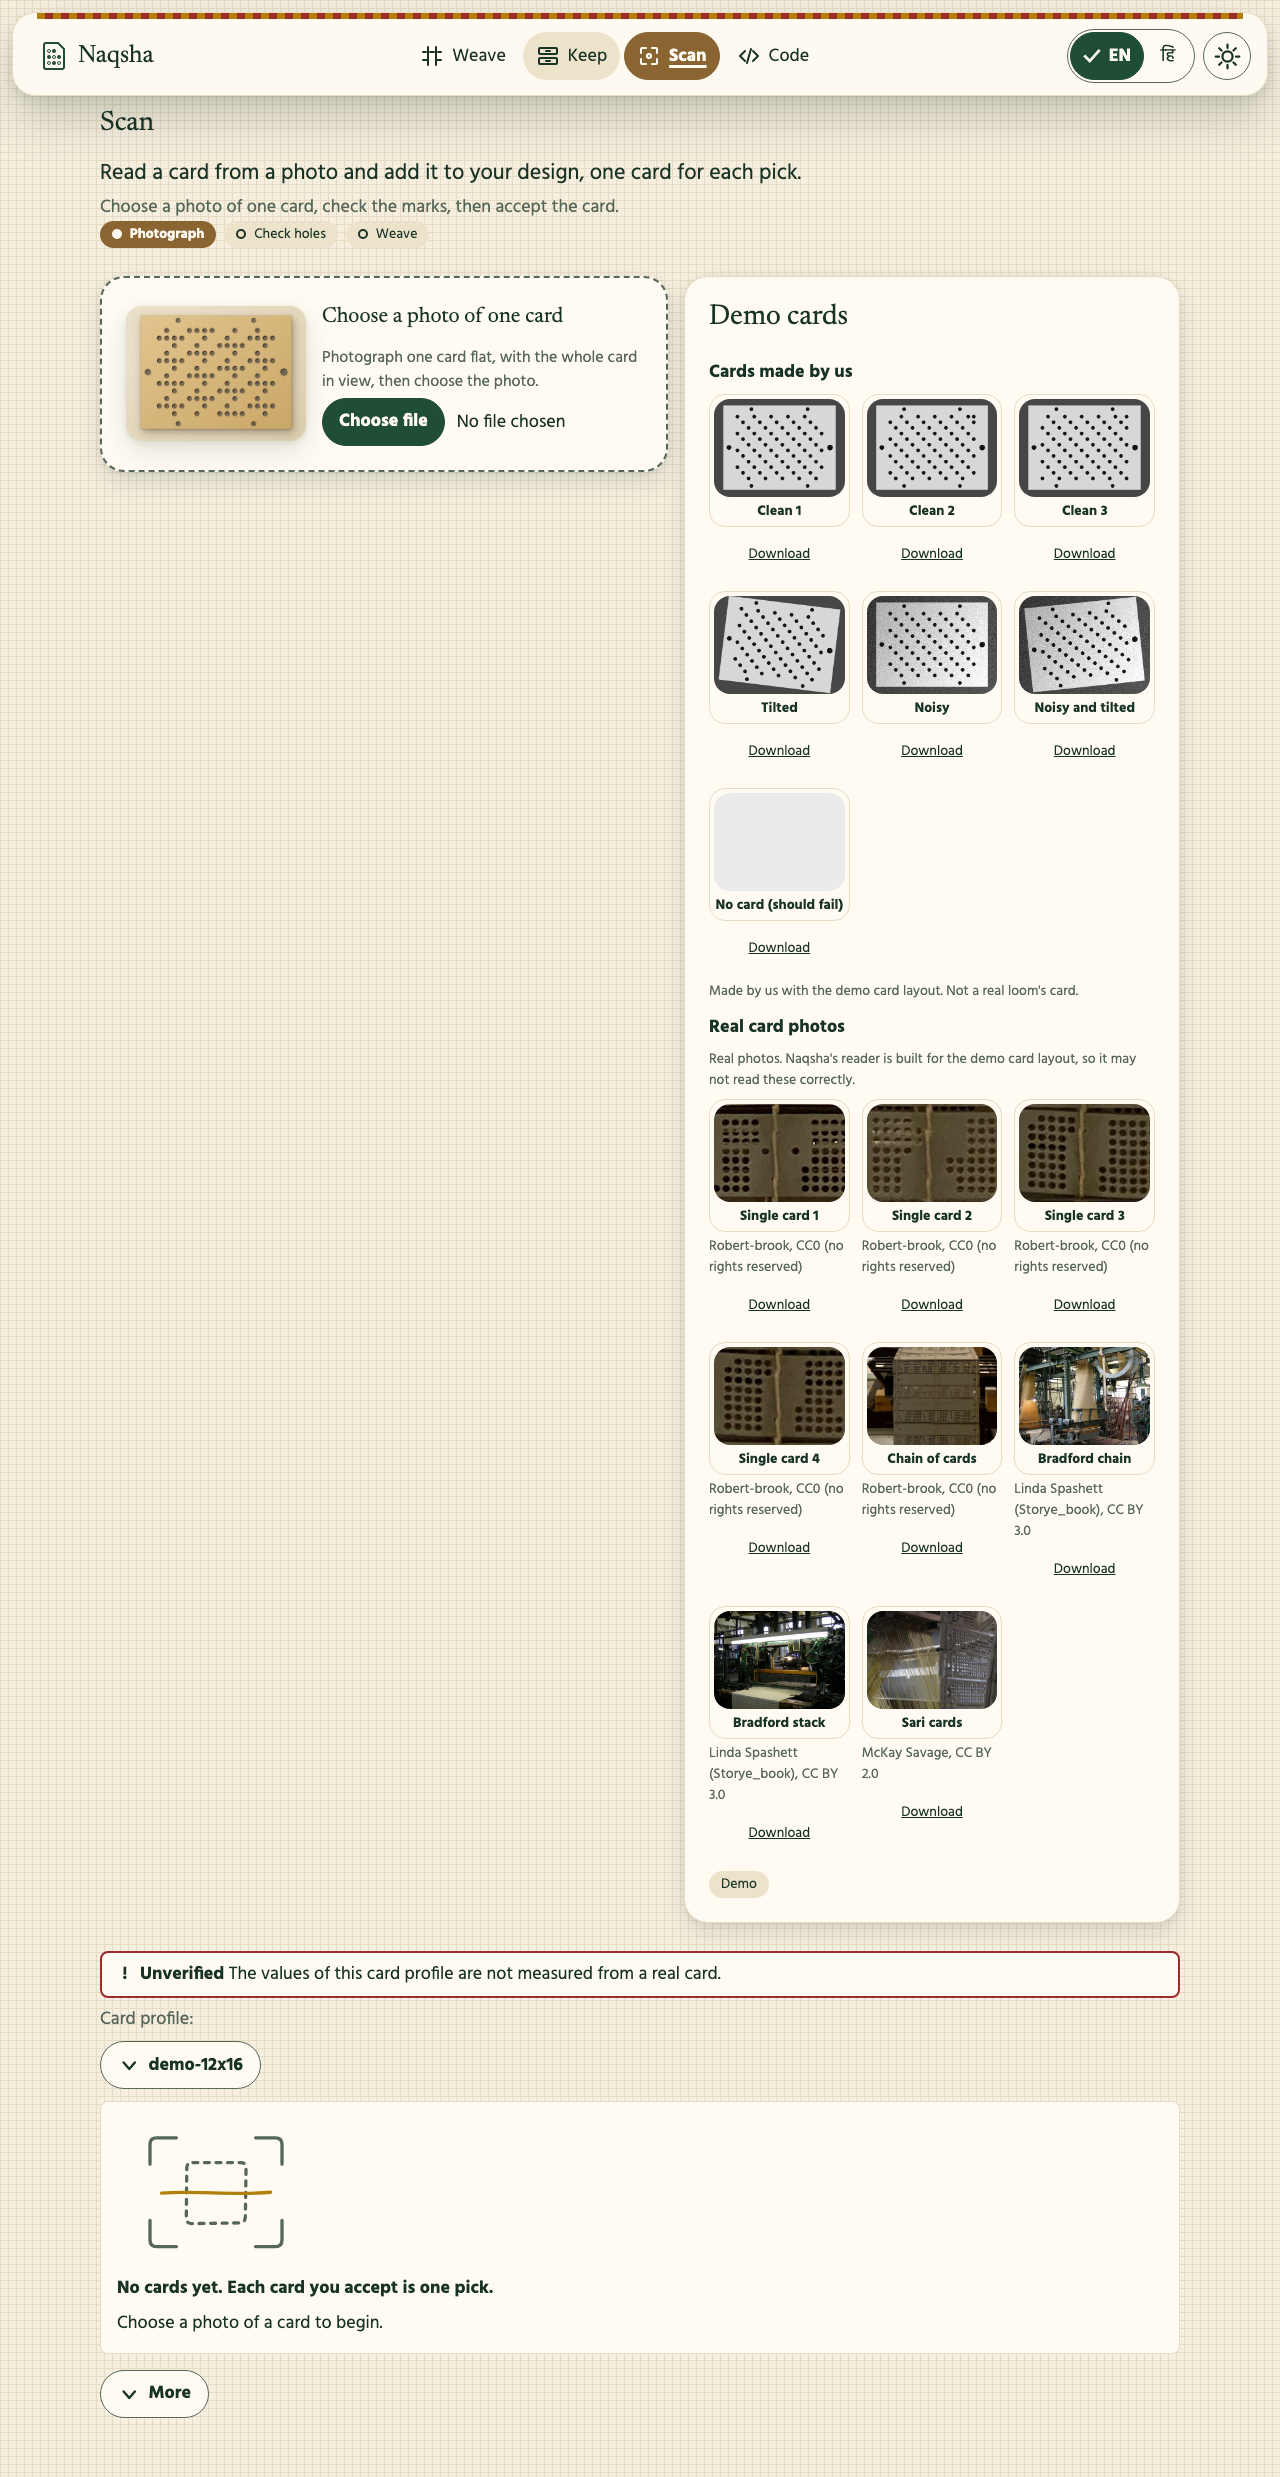
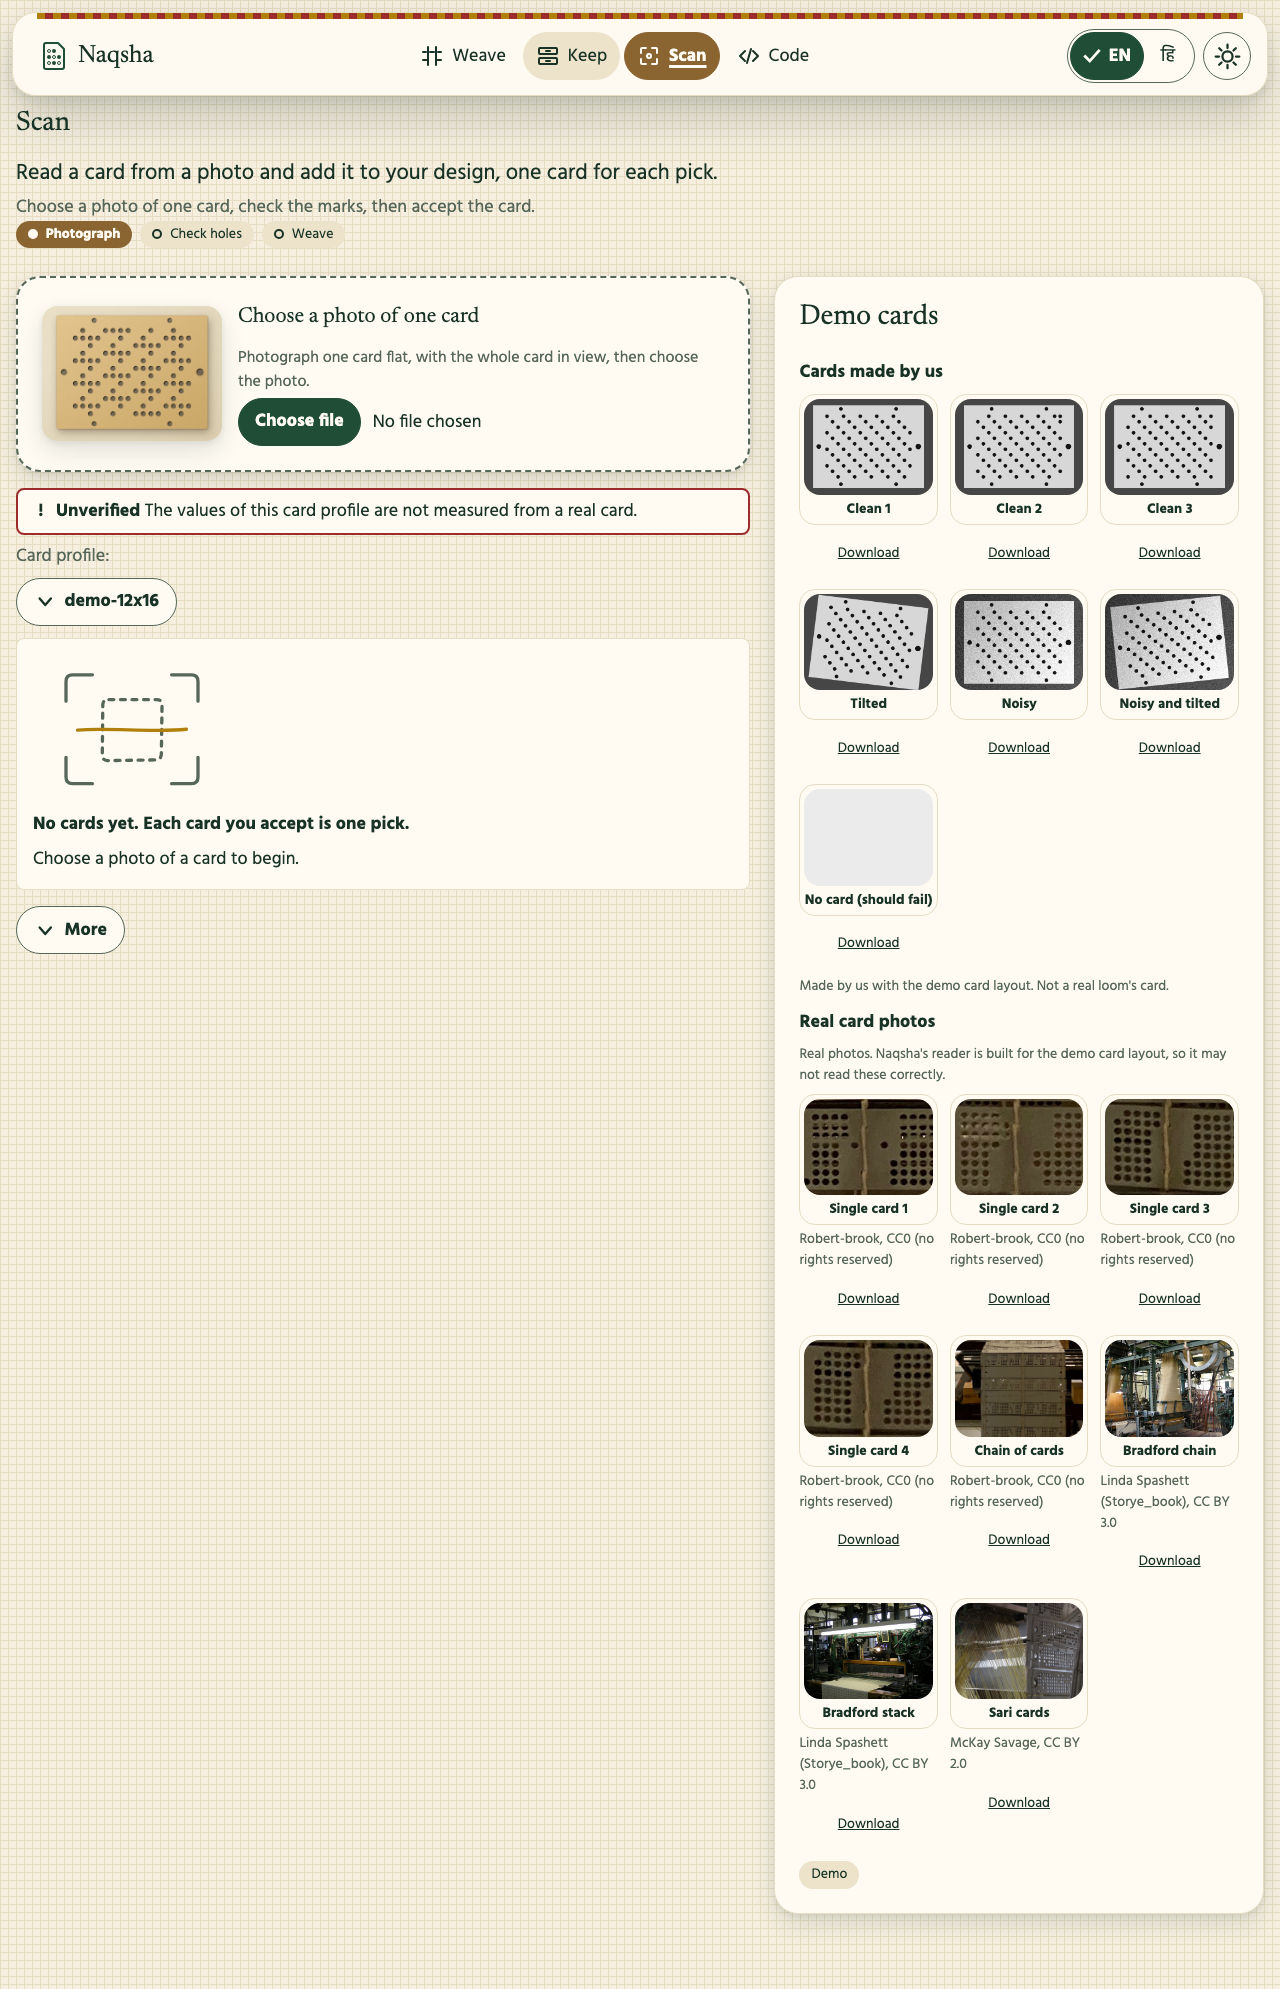
scan: two-column layout, demo cards on the right

diff --git a/src/ui/screens/scan/ScanScreen.tsx b/src/ui/screens/scan/ScanScreen.tsx
@@ -141,14 +141,16 @@ export function ScanView(props: ScanViewProps) {
           );
         })}
       </ol>
+      {/* From 1024 px the controls sit on the left and the Demo cards on the right. The DOM order is the tab order and the narrow-screen order. */}
+      <div className={styles.layout}>
+      <div className={styles.main}>
       {profile === null ? (
         <Panel>
           <p className={styles.emptyText}>{t('scan.needsProfile')}</p>
         </Panel>
       ) : (
         <>
-          {/* Choose-a-photo is the first control, outside the Disclosure. The Demo cards sit beside it, below it where the line is short. */}
-          <div className={styles.chooseBand}>
+          {/* Choose-a-photo is the first control, outside the Disclosure. The Demo cards come last in the DOM and sit on the right. */}
           <Panel as="section" aria-labelledby="scan-choose-title" className={`${styles.panel} ${styles.zone}`}>
             {/* A hint of what to photograph: a card drawn by the app. */}
             <ArtImage art={ART['card-diamond']} alt={t(ART['card-diamond'].altKey)} className={styles.zoneArt} />
@@ -180,14 +182,6 @@ export function ScanView(props: ScanViewProps) {
             {scan.status === 'failed' ? <FailureMessage failure={scan.failure} t={t} /> : null}
             </div>
           </Panel>
-          <DemoCards
-            t={t}
-            base={import.meta.env.BASE_URL}
-            busy={scan.status === 'reading'}
-            notice={props.demoNotice ?? null}
-            onDemo={props.onDemo ?? noopDemo}
-          />
-          </div>
           <ProfileNotice profile={profile} t={t} />
           {batch.length === 0 ? (
             <StateMessage variant="empty" illustration={<NoCardsScannedIllustration />} message={t('scan.batch.empty')} next={t('scan.batch.empty.next')} t={t} />
@@ -236,6 +230,19 @@ export function ScanView(props: ScanViewProps) {
           ) : null}
         </Panel>
       </Disclosure>
+      </div>
+      </div>
+      {profile === null ? null : (
+        <div className={styles.side}>
+          <DemoCards
+            t={t}
+            base={import.meta.env.BASE_URL}
+            busy={scan.status === 'reading'}
+            notice={props.demoNotice ?? null}
+            onDemo={props.onDemo ?? noopDemo}
+          />
+        </div>
+      )}
       </div>
     </section>
   );

diff --git a/src/ui/screens/scan/ScanScreen.module.css b/src/ui/screens/scan/ScanScreen.module.css
@@ -74,20 +74,35 @@
   flex: 1 1 16rem;
   min-width: 0;
 }
-.chooseBand {
-  display: flex;
-  flex-wrap: wrap;
-  gap: var(--space-4);
-  align-items: flex-start;
+/* One column below 1024 px, in DOM order: the chooser and the controls, then the Demo cards. */
+.layout {
+  display: block;
 }
-.chooseBand > .zone {
-  flex: 1 1 24rem;
+.main,
+.side {
   min-width: 0;
 }
-.chooseBand > :not(.zone) {
-  flex: 1 1 20rem;
-  min-width: 0;
+.side {
   margin: 16px 0;
+}
+/* From 1024 px: the controls (left) and the Demo cards (right) side by side; the DOM order is kept, only the grid places them. */
+@media (min-width: 1024px) {
+  .screen {
+    max-width: 72rem;
+  }
+  .layout {
+    display: grid;
+    grid-template-columns: minmax(0, 3fr) minmax(0, 2fr);
+    grid-template-areas: 'main side';
+    gap: var(--space-5);
+    align-items: start;
+  }
+  .main {
+    grid-area: main;
+  }
+  .side {
+    grid-area: side;
+  }
 }
 .more {
   margin: 16px 0 0;

diff --git a/.kiro/specs/scan-layout/tasks.md b/.kiro/specs/scan-layout/tasks.md
@@ -1,0 +1,31 @@
+# Implementation Plan: Scan layout fix
+
+## Overview
+
+Small layout fix on the Scan screen. Credit target under 15, stop after about 12.
+
+## Tasks
+
+- [ ] 1. Scan two-column layout
+  - [-] 1.1 Two columns at 1024 px and wider, one column below, screenshots, commit
+    - Problem: on Scan the Demo cards panel (src/ui/screens/scan/DemoCards.tsx, placed in `.chooseBand` beside the drop zone) is very tall and pushes everything after the drop zone far down: the Unverified notice, the Card profile control, the "No cards yet. Each card you accept is one pick." text, "Choose a photo of a card to begin." and the "More" section.
+    - At 1024 px and wider, two columns. Left column top to bottom: the "Choose a photo of one card" Card (drop zone), then directly below it the Unverified notice, the Card profile control, the "No cards yet" text and "Choose a photo of a card to begin.", and the "More" section. Right column: the Demo cards panel at the top, content unchanged. The panel may be position: sticky below the header only if that covers nothing (the header is itself sticky; the sticky top offset must clear it, with the panel's own height possibly taller than the viewport: then leave it static); otherwise static.
+    - Under 1024 px: one column in this order: the drop zone Card, the Unverified notice and the rest of the left column, then the Demo cards panel last. The Demo cards panel must not come before the controls at narrow widths.
+    - DOM order must give the tab order that follows the visual order in both layouts: the DOM order is drop zone, notice/profile/empty/More, then Demo cards; use CSS grid placement (grid-template-areas or grid-column/row) for the two-column layout, not DOM reordering. Keep 44 px (48 preferred) targets, English and Hindi strings unchanged, every accessible name and test. Use a container query or the existing patterns (the style tests forbid width @media except the allowed ones: read tests/ui/accessibility.test.tsx R14.11; a `min-width` media query is allowed there; container queries are fine).
+    - Update a test only if its order assertion really changed, and say which (the Scan source-order tests in tests/ui/screens/scan.test.tsx may pin the order of DemoCards vs the other panels).
+    - Check: check:browser passes; no horizontal scroll at 320, 390 and 1280 (the existing step 12 covers it). Take Scan screenshots (`npm run screenshots -- after-run3 --view scan-demo` or the existing option) at 390 and 1280, day, into media/design/after-run3/ (replace scan-demo-day-390.png and scan-demo-day-1280.png), and also capture one at 1280 viewport top-of-page WITHOUT full page (viewport 1280x800) as media/design/after-run3/scan-first-screen-day-1280.png so the orchestrator can confirm that the notice, Card profile and "More" are visible within the first screen at 1280. Add that view to the screenshots script/validator/test only if cheap; otherwise capture it with a temporary script and still commit the PNG.
+    - Gate: typecheck, test:run, build, check-bundle (entry under 150,000 gz), check:browser, contrast report all exit 0. Commit `scan: two-column layout, demo cards on the right` with the screenshots and the status files of .kiro/specs/scan-layout/ and .kiro/specs/bmp-fix/, explicit paths, plain push to origin auto/build. Short report: what changed, which test (if any) changed, gate results, the screenshot list, the commit hash. Credit cap: about 12, be very efficient (do not re-read big files).
+
+## Notes
+
+- Stop after this fix.
+
+## Task Dependency Graph
+
+```json
+{
+  "waves": [
+    { "id": 0, "tasks": ["1.1"] }
+  ]
+}
+```

diff --git a/.kiro/specs/bmp-fix/tasks.md b/.kiro/specs/bmp-fix/tasks.md
@@ -6,8 +6,8 @@ Small fix. The user replaced public/demo/loom-files/diamond-1bit.bmp and diamond
 
 ## Tasks
 
-- [ ] 1. Loom files are the Diamond export
-  - [-] 1.1 Update the test and every text that says the files are the 200-pick pattern, run the gate, commit with the BMPs
+- [x] 1. Loom files are the Diamond export
+  - [x] 1.1 Update the test and every text that says the files are the 200-pick pattern, run the gate, commit with the BMPs
     - In tests/ui/state/demoDesigns.test.tsx change the test "are byte for byte what the normal export gives for the demo pattern of 200 picks" to compare against generateSample(profile, 'diamond') exported with the normal export path (runExport or exportPatternBmp as the test already uses) at 1 and 8 bit; rename it (for example "are byte for byte what the normal export gives for the Diamond sample at 1 and 8 bit"); keep the rest of the file. Also assert the sizes 926 and 7,990 bytes and the width 192 and 36 picks read back from the BMP header.
     - Update every place that says these files are the 200-pick pattern or that the Diamond sample differs from them: the Keep demo card text (en.json and hi.json; Hindi marked reviewed false, review-list), docs/JUDGES.md, public/demo/README.txt, docs/BUILD_LOG.md, README if it says so, .kiro/specs/judges-kit/measurements.md (add a dated note), and any test that pins the old wording or the old sizes (4,862 and 39,478; 192 x 200): re-aim by the new numbers at the same strength. Search with grep for 200, 4862, 39478, demoPattern and 'diamond-' across src, tests, scripts, docs, public/demo/README.txt. Say plainly in the texts that the files are the Diamond export. check:browser step 22 (BMP header width 192) must still pass; if it also checks the height or size, update to 36 / the new sizes.
     - Run the full gate: typecheck, test:run, build, check-bundle, check:browser, contrast report. Commit with message `demo loom files: now the Diamond export` including public/demo/loom-files/*.bmp (the user's uncommitted replacement; do not modify them) and the .kiro/specs/judges-kit and bmp-fix status files; add by explicit path; plain push to origin auto/build. Report: files changed, gate results, entry chunk bytes, commit hash.
